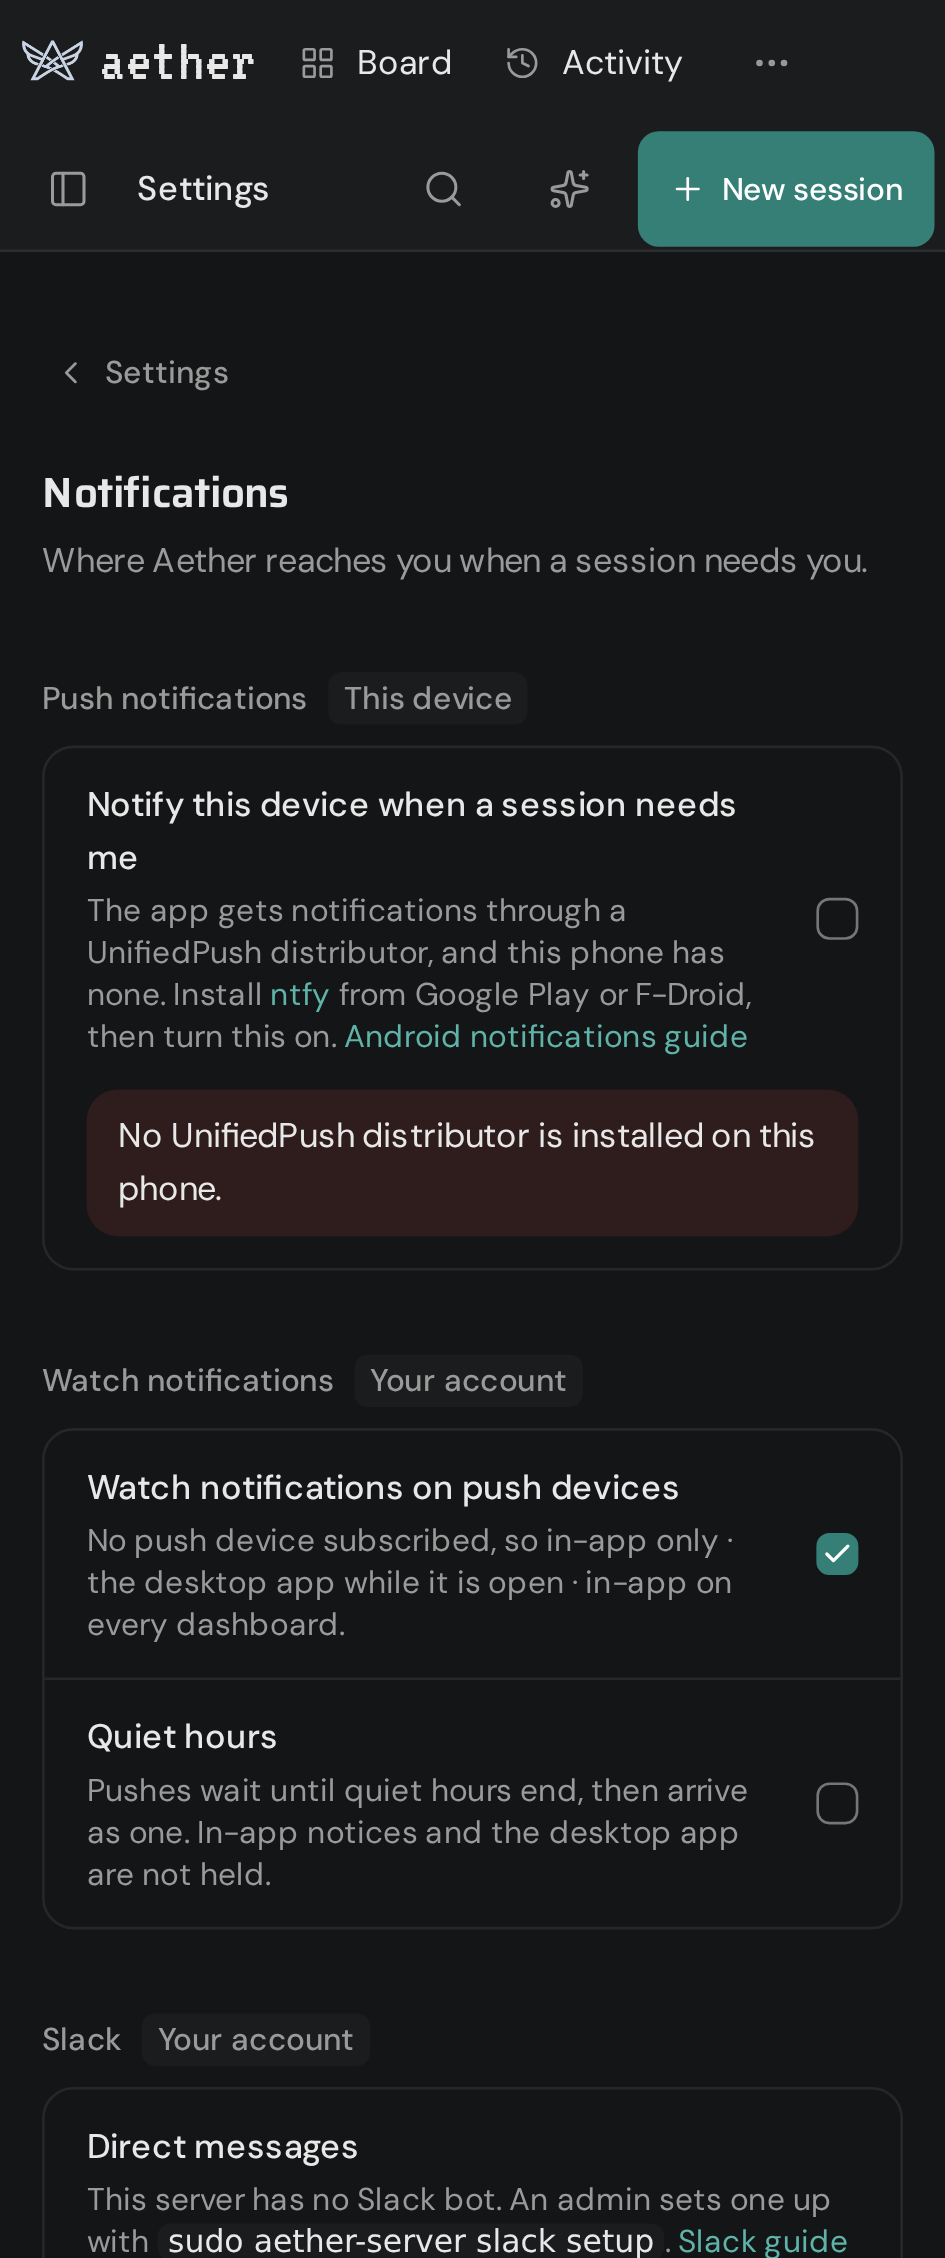
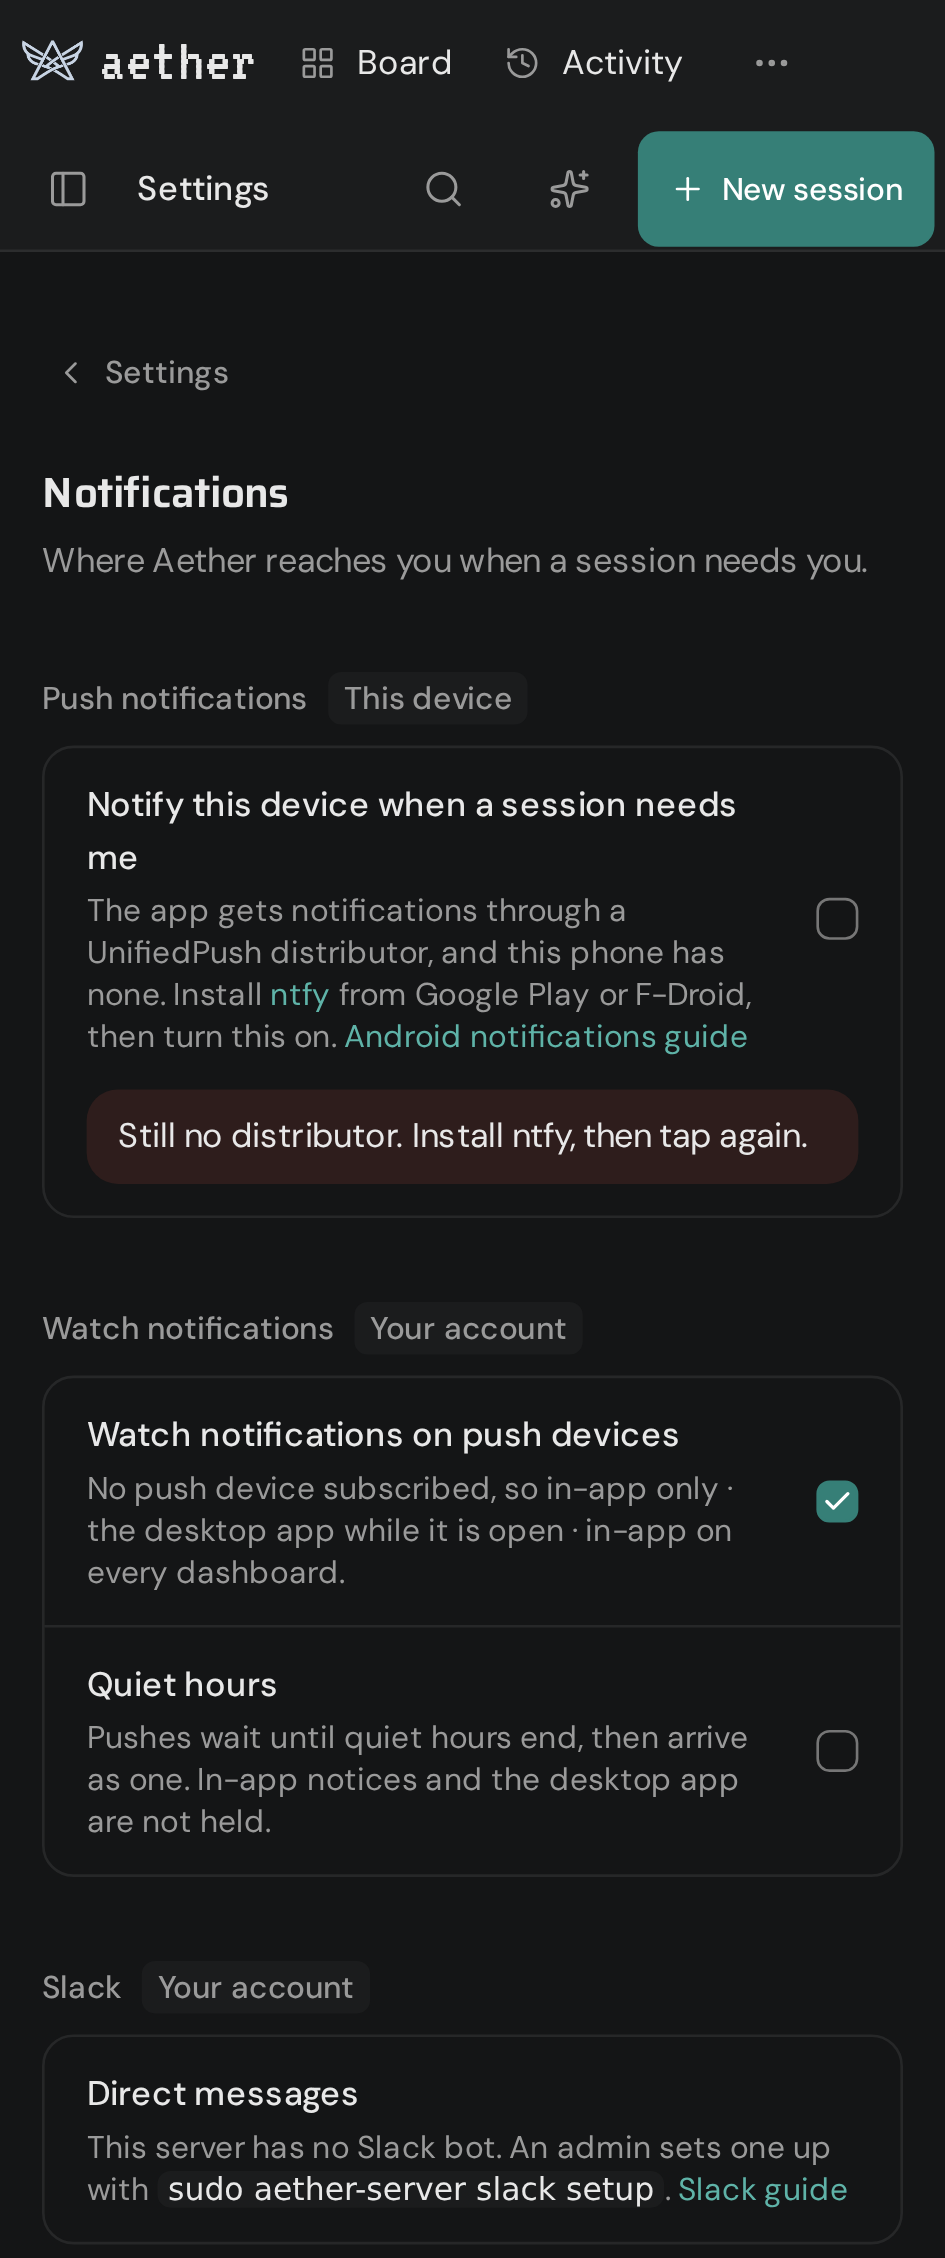
fix(android): name each notification's kind on the lock screen
Every hidden notification read "A session needs you" on the lock
screen, including assistant updates and the outcome of a Decline,
which made updates look like a human ask.

The lock screen now names the kind: a session that needs you, a new
update, or an assistant card. A refused Decline names the card it was
about, "Declining…" clears itself if nothing follows, a shown error is
not shown again, and notifications turned off in Android's settings
read as blocked. A retry with no distributor says so in fewer words.

diff --git a/android/app/src/main/kotlin/io/aether/android/Notifications.kt b/android/app/src/main/kotlin/io/aether/android/Notifications.kt
@@ -116,10 +116,17 @@ fun createPushChannels(context: Context) {
 }
 
 /**
- * A notification on [channel]. The lock screen shows only that Aether has
- * something; the session and its text wait until the phone is unlocked.
+ * A notification on [channel]. The lock screen shows only [public], what
+ * kind of thing Aether has; the session and its text wait until the phone
+ * is unlocked.
  */
-private fun builder(context: Context, channel: PushChannel, title: String, body: String): NotificationCompat.Builder {
+private fun builder(
+    context: Context,
+    channel: PushChannel,
+    title: String,
+    body: String,
+    public: Int = if (channel == PushChannel.NEEDS_YOU) R.string.push_public else R.string.push_public_update,
+): NotificationCompat.Builder {
     createPushChannels(context)
     val id = if (channel == PushChannel.NEEDS_YOU) CHANNEL_NEEDS_YOU else CHANNEL_UPDATES
     fun base() =
@@ -129,7 +136,7 @@ private fun builder(context: Context, channel: PushChannel, title: String, body:
     val public =
         base()
             .setContentTitle(context.getString(R.string.app_name))
-            .setContentText(context.getString(R.string.push_public))
+            .setContentText(context.getString(public))
             .build()
     return base()
         .setContentTitle(title)
@@ -202,11 +209,19 @@ class DeclineReceiver : BroadcastReceiver() {
         val app = context.applicationContext
         val manager = NotificationManagerCompat.from(app)
         fun outcome(title: String, body: String) =
-            builder(app, PushChannel.NEEDS_YOU, title, body)
+            builder(app, PushChannel.NEEDS_YOU, title, body, public = R.string.push_public_card)
                 .setAutoCancel(true)
                 .setContentIntent(openIntent(app, tag, CARD_PATH))
-                .addExtras(android.os.Bundle().apply { putBoolean(EXTRA_KEEP, true) })
-        notify(manager, tag, outcome(text, app.getString(R.string.push_declining)).setSilent(true).setOnlyAlertOnce(true))
+        // Not kept: a clear for the card may replace it, and it goes by
+        // itself if the receiver dies before the outcome.
+        notify(
+            manager,
+            tag,
+            outcome(text, app.getString(R.string.push_declining))
+                .setSilent(true)
+                .setOnlyAlertOnce(true)
+                .setTimeoutAfter(DECLINING_TIMEOUT_MS),
+        )
         val result = goAsync()
         Thread {
                 val done =
@@ -219,14 +234,20 @@ class DeclineReceiver : BroadcastReceiver() {
                         )
                         outcome(app.getString(R.string.push_declined), text).setSilent(true)
                     } catch (e: Exception) {
-                        outcome(app.getString(R.string.push_decline_failed), e.message ?: e.toString())
-                    }
+                        val error = e.message ?: e.toString()
+                        // The error first, then the card it was about.
+                        outcome(app.getString(R.string.push_decline_failed), error)
+                            .setStyle(NotificationCompat.BigTextStyle().bigText("$error\n\n$text"))
+                    }.addExtras(android.os.Bundle().apply { putBoolean(EXTRA_KEEP, true) })
                 notify(manager, tag, done)
                 result.finish()
             }
             .start()
     }
 }
+
+// Longer than the call can take inside goAsync's 10 seconds.
+private const val DECLINING_TIMEOUT_MS = 15_000L
 
 // internal/push's CardLink: the dashboard with the assistant panel open.
 private const val CARD_PATH = "/?assistant=1"

diff --git a/android/app/src/main/kotlin/io/aether/android/PushRegistration.kt b/android/app/src/main/kotlin/io/aether/android/PushRegistration.kt
@@ -1,6 +1,10 @@
 package io.aether.android
 
+import android.Manifest
 import android.app.Activity
+import android.content.pm.PackageManager
+import android.os.Build
+import androidx.core.content.ContextCompat
 import android.content.Context
 import android.os.Handler
 import android.os.Looper
@@ -28,7 +32,8 @@ enum class PushKind(val wire: String) {
 data class PushState(val kind: PushKind, val endpoint: String? = null, val error: String? = null)
 
 /**
- * The switch's state from what is stored and installed. On means all of it
+ * The switch's state from what is stored and installed. [mayAsk] is whether
+ * Android has yet to be asked for the notification permission. On means all of it
  * holds: a distributor still holds the registration, [server], the current
  * connection, has its endpoint, and Android lets the app notify.
  */
@@ -39,10 +44,13 @@ fun pushStateOf(
     registered: Boolean,
     anyDistributor: Boolean,
     allowed: Boolean,
+    mayAsk: Boolean,
 ): PushState =
     when {
         pending -> PushState(PushKind.PENDING)
-        stored.endpoint != null && registered && !allowed -> PushState(PushKind.BLOCKED)
+        // Turning the switch on asks for the permission Android 13 starts
+        // without; anything else that keeps notifications off is a block.
+        !allowed && !mayAsk -> PushState(PushKind.BLOCKED)
         stored.endpoint != null && registered && stored.synced && stored.server == server ->
             PushState(PushKind.ON, stored.endpoint)
         !anyDistributor -> PushState(PushKind.NO_DISTRIBUTOR, error = stored.error)
@@ -74,6 +82,10 @@ object PushRegistration {
             registered = UnifiedPush.getAckDistributor(context) != null,
             anyDistributor = UnifiedPush.getDistributors(context).isNotEmpty(),
             allowed = NotificationManagerCompat.from(context).areNotificationsEnabled(),
+            mayAsk =
+                Build.VERSION.SDK_INT >= Build.VERSION_CODES.TIRAMISU &&
+                    ContextCompat.checkSelfPermission(context, Manifest.permission.POST_NOTIFICATIONS) !=
+                    PackageManager.PERMISSION_GRANTED,
         )
 
     /**
@@ -177,6 +189,10 @@ object PushRegistration {
                 changed()
             }
             .start()
+    }
+
+    fun clearError(context: Context) {
+        context.storePush(context.storedPush().copy(error = null))
     }
 
     fun fail(context: Context, error: String) {

diff --git a/web/e2e/android-push.mobile.spec.ts b/web/e2e/android-push.mobile.spec.ts
@@ -17,7 +17,7 @@ test('the Android app names a missing distributor, then turns notifications on',
         const send = (state: object) =>
           setTimeout(() => bridge.dispatchEvent(new MessageEvent('message', { data: JSON.stringify(state) })))
         if (!installed) {
-          return send(op === 'enable' ? { kind: 'no-distributor', error: 'No UnifiedPush distributor is installed on this phone.' } : { kind: 'no-distributor' })
+          return send(op === 'enable' ? { kind: 'no-distributor', error: 'Still no distributor. Install ntfy, then tap again.' } : { kind: 'no-distributor' })
         }
         if (op === 'enable') send({ kind: 'pending' })
         send(op === 'enable' ? { kind: 'on', endpoint: 'https://ntfy.sh/upAetherE2E?up=1' } : { kind: 'off' })
@@ -34,7 +34,7 @@ test('the Android app names a missing distributor, then turns notifications on',
   // Edge's gateway: no installed Chrome dashboard to point to.
   await expect(page.getByText('Or open this dashboard in Chrome')).toHaveCount(0)
   await toggle.click()
-  await expect(page.getByRole('region', { name: 'Push notifications' }).getByRole('alert')).toHaveText('No UnifiedPush distributor is installed on this phone.')
+  await expect(page.getByRole('region', { name: 'Push notifications' }).getByRole('alert')).toHaveText('Still no distributor. Install ntfy, then tap again.')
   await expect(toggle).not.toBeChecked()
 
   await page.evaluate(() => (window as unknown as { installDistributor: () => void }).installDistributor())

diff --git a/android/app/src/test/kotlin/io/aether/android/PushNoticeTest.kt b/android/app/src/test/kotlin/io/aether/android/PushNoticeTest.kt
@@ -117,7 +117,8 @@ class PushNoticeTest {
             registered: Boolean = true,
             any: Boolean = true,
             allowed: Boolean = true,
-        ) = pushStateOf(stored, current, pending, registered, any, allowed)
+            mayAsk: Boolean = false,
+        ) = pushStateOf(stored, current, pending, registered, any, allowed, mayAsk)
         assertEquals(PushState(PushKind.ON, synced.endpoint), state())
         // Another server was chosen under Connection: it does not have the endpoint yet.
         assertEquals(PushKind.OFF, state(current = "edge").kind)
@@ -128,6 +129,9 @@ class PushNoticeTest {
         val unsent = synced.copy(synced = false, error = "HTTP 503")
         assertEquals(PushState(PushKind.OFF, error = "HTTP 503"), state(stored = unsent))
         val none = StoredPush(null, null, null, synced = false, error = null)
-        assertEquals(PushKind.OFF, state(stored = none, allowed = false).kind)
+        // Android 13 starts without the permission: the switch asks for it.
+        assertEquals(PushKind.OFF, state(stored = none, allowed = false, mayAsk = true).kind)
+        // Turned off in Android's settings, before or after subscribing.
+        assertEquals(PushKind.BLOCKED, state(stored = none, allowed = false).kind)
     }
 }

diff --git a/android/app/src/main/kotlin/io/aether/android/PushBridge.kt b/android/app/src/main/kotlin/io/aether/android/PushBridge.kt
@@ -89,7 +89,7 @@ class PushBridge(private val activity: ComponentActivity) {
     /** No distributor, no permission prompt: the switch names the fix first. */
     private fun enable() {
         if (UnifiedPush.getDistributors(activity).isEmpty()) {
-            send(PushState(PushKind.NO_DISTRIBUTOR, error = "No UnifiedPush distributor is installed on this phone."))
+            send(PushState(PushKind.NO_DISTRIBUTOR, error = "Still no distributor. Install ntfy, then tap again."))
             return
         }
         val needsPermission =
@@ -103,6 +103,9 @@ class PushBridge(private val activity: ComponentActivity) {
         val json = JSONObject().put("kind", state.kind.wire)
         state.endpoint?.let { json.put("endpoint", it) }
         state.error?.let { json.put("error", it) }
-        reply?.postMessage(json.toString())
+        val page = reply ?: return
+        page.postMessage(json.toString())
+        // Shown once: a later visit to Settings starts clean.
+        if (state.error != null) PushRegistration.clearError(activity)
     }
 }

diff --git a/docs/networking.md b/docs/networking.md
@@ -394,8 +394,9 @@ card. When a session stops needing you, its notification goes away.
 Sessions and cards that need you arrive on the **Sessions that need you**
 channel; assistant notices, budgets and test notifications on **Assistant
 updates**, which you can quiet separately in Android's settings for the app.
-The lock screen shows only `A session needs you` until the phone is
-unlocked.
+Until the phone is unlocked the lock screen shows only what kind of
+notification it is: `A session needs you`, `New update`, or `Assistant
+card` for a decision made from a notification.
 
 Limits:
 
